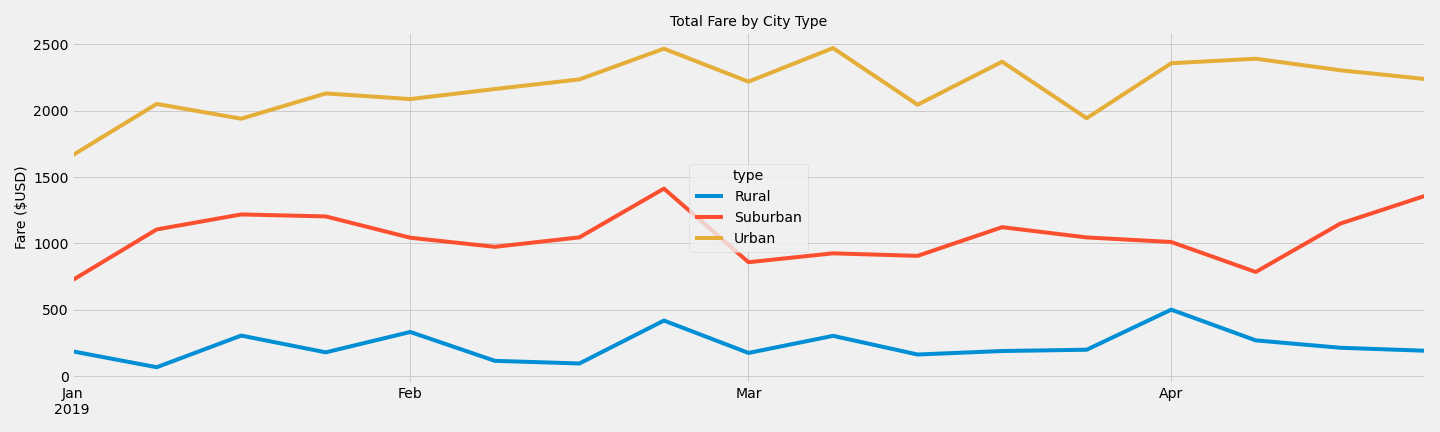
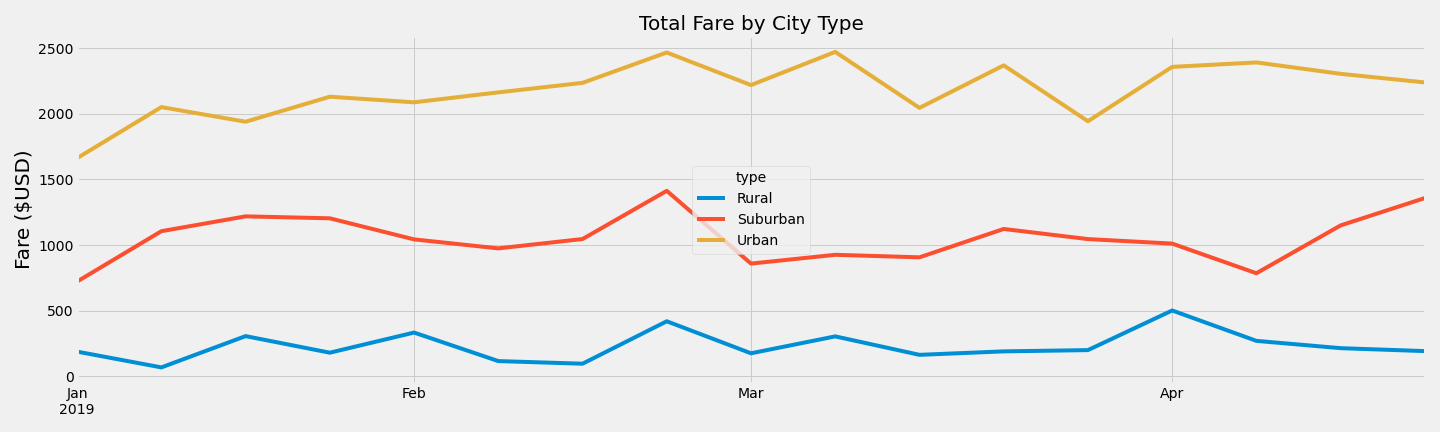
Adding readme text and adjusting images

diff --git a/README.md b/README.md
@@ -1,2 +1,21 @@
-# PyBer-Analysis
-Ridesharing app analysis
+# Module 5 |  PyBer Analysis
+## Overview of Project
+### Purpose
+The purpose of this analysis is to do a more detailed analysis on PyBer rideshare data from January to May 2019.  In particular this analysis does a comparison of city types: 
+ - Rural    
+ - Suburban    
+ - Urban
+Through tracking data on total rides, total drivers, and total fares
+
+## Results
+Summary of Data:
+![enter image description here](https://raw.githubusercontent.com/Andres-T-Hernandez/PyBer-Analysis/main/Analysis/PyBer%20Summary.png)
+
+![enter image description here](https://raw.githubusercontent.com/Andres-T-Hernandez/PyBer-Analysis/main/Analysis/PyBer_fare_summary.png)
+As we can see from the data, there are significant differences between city types.  There is significantly more volume in both rides and drivers from rural to suburban to urban.  However even though the average fare per ride is progressively lower between the rural-suburban-urban divide, there is progressively more fares.  The Average fare per driver is also progressively lower, and this draws attention to the ration of total rides to drivers also decreasing with urban cities even having more drivers than rides.  Finally, a comparison of fares by dates indicates that fares remained steady by type throughout the year.
+
+## Summary
+Based on the results of this summary there are three recommendations
+ 1. Reduce the amount of drivers in urban cities.  Having more drivers then rides may be driving down total fares 
+ 2. Increase the amount of drivers in rural and slightly in suburban cities.  Its possible the amount of rides are hitting a limit if there are not enough drivers available
+ 3. Decrease the price of each ride in rural and perhaps suburban cities.  As we can see from urban centers volume in total rides can make up for lower fares per ride.
